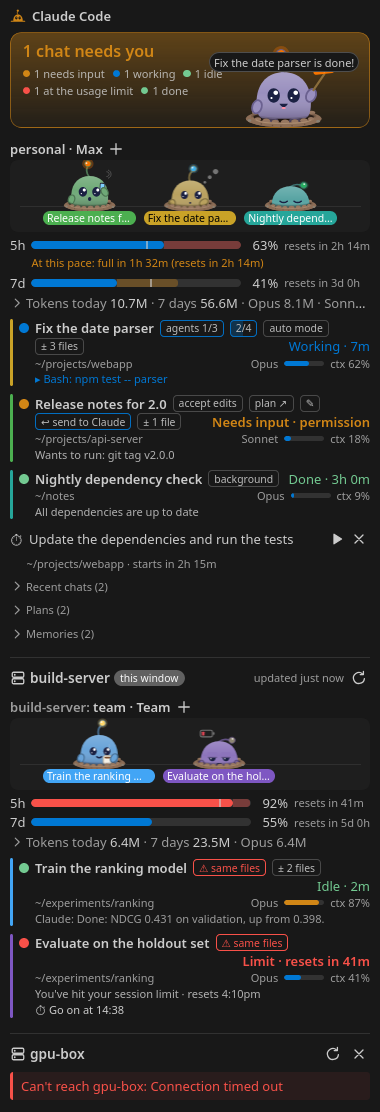
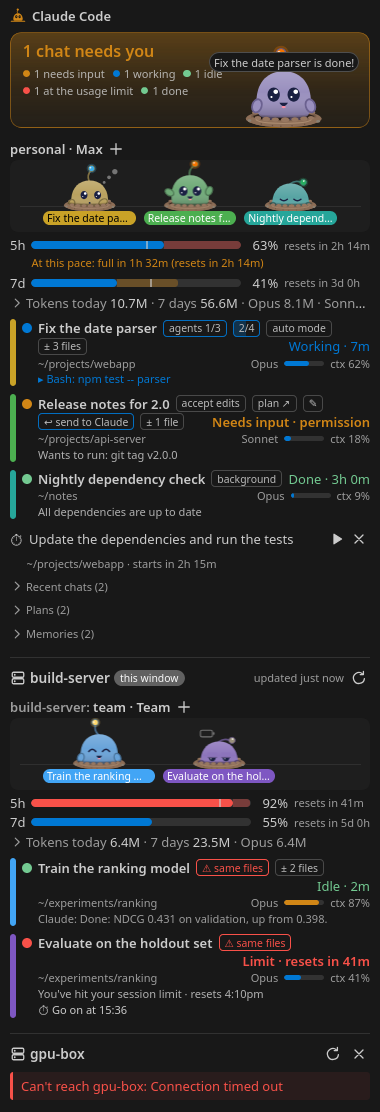
Pets in the order of the list, drawn only as often as they change
The pets stand in the order of their chats in the list, and hurry over when
a new chat makes room; the bar in a pet's color next to its chat is twice as
wide. Talpa (the widget at 501ff92) says how often a picture is worth
drawing, and each pet is drawn only that often; the stage's glow is an
opacity fade the compositor does, instead of a repaint every frame. Nothing
shows under the burrow's lip any more, and the icons are made again.

diff --git a/webview/pets/pets.css b/webview/pets/pets.css
@@ -1,12 +1,6 @@
 /* The pets' stages (webview/pets/stage.ts). Pets move with transforms only;
    each Talpa draws itself on its own canvas (pet.ts). */
 
-@property --cs-glow {
-  syntax: "<number>";
-  inherits: true;
-  initial-value: 1;
-}
-
 .cs-stage {
   --cs-ease-in-out-sine: cubic-bezier(0.37, 0, 0.63, 1);
   --cs-small-font: calc(var(--vscode-font-size, 13px) * 0.85);
@@ -40,7 +34,8 @@
 
 /* A hidden stage: nothing animates */
 .cs-stage.cs-paused,
-.cs-stage.cs-paused * {
+.cs-stage.cs-paused *,
+.cs-stage.cs-paused *::after {
   animation-play-state: paused !important;
 }
 
@@ -59,23 +54,34 @@
   inset: 0;
   box-sizing: border-box;
   border-radius: inherit;
-  --cs-glow: 1;
   background: linear-gradient(
     to bottom,
-    color-mix(in srgb, var(--cs-mood) calc(24% * var(--cs-glow)), transparent),
+    color-mix(in srgb, var(--cs-mood) 24%, transparent),
     color-mix(in srgb, var(--cs-mood) 6%, transparent)
   );
-  border: 1px solid color-mix(in srgb, var(--cs-mood) calc(35% * var(--cs-glow)), transparent);
+  border: 1px solid color-mix(in srgb, var(--cs-mood) 35%, transparent);
 }
 
-/* It pulses while a chat needs you */
-.cs-stage--hero.cs-glowing .cs-stage-light {
+/* It pulses while a chat needs you: a brighter light fades in and out over
+   it (only its opacity changes, which needs no repainting) */
+.cs-stage-light::after {
+  content: "";
+  position: absolute;
+  inset: -1px;
+  box-sizing: border-box;
+  border-radius: inherit;
+  background: linear-gradient(to bottom, color-mix(in srgb, var(--cs-mood) 14%, transparent), transparent 60%);
+  border: 1px solid color-mix(in srgb, var(--cs-mood) 21%, transparent);
+  opacity: 0;
+}
+
+.cs-stage--hero.cs-glowing .cs-stage-light::after {
   animation: cs-glow 1.8s infinite;
 }
 
 @keyframes cs-glow {
-  0%, 100% { --cs-glow: 1; animation-timing-function: var(--cs-ease-in-out-sine); }
-  50% { --cs-glow: 1.6; animation-timing-function: var(--cs-ease-in-out-sine); }
+  0%, 100% { opacity: 0; animation-timing-function: var(--cs-ease-in-out-sine); }
+  50% { opacity: 1; animation-timing-function: var(--cs-ease-in-out-sine); }
 }
 
 .cs-stage-stars {
@@ -259,7 +265,7 @@
 }
 
 @media (prefers-reduced-motion: reduce) {
-  .cs-stage-light {
+  .cs-stage-light::after {
     animation: none !important;
   }
 }

diff --git a/webview/pets/pet.ts b/webview/pets/pet.ts
@@ -282,11 +282,11 @@ export class Pet {
       } else if (!this.stage.shownOnce() || this.arriving) {
         this.px = x; // not seen yet, or still underground: it's just there
       } else if (!this.lone) {
-        this.digTo(x);
+        this.digTo(x, true);
       }
     }
     // the stage got narrower: back inside it
-    if (!this.held && this.px > this.maxX) this.digTo(this.maxX);
+    if (!this.held && this.px > this.maxX) this.digTo(this.maxX, true);
     this.changed();
   }
 
@@ -343,8 +343,9 @@ export class Pet {
     });
   }
 
-  // Digs over to x (it dives in, tunnels across, pops up there)
-  private digTo(x: number): void {
+  // Digs over to x (it dives in, tunnels across, pops up there); quick: its
+  // spot moved (a new chat makes room), so it hurries
+  private digTo(x: number, quick = false): void {
     if (this.held || this.leaving || this.arriving) return;
     this.travelTo = this.clampX(x);
     if (Math.abs(this.travelTo - this.px) < this.stage.bodyWidth * 0.3) {
@@ -357,7 +358,7 @@ export class Pet {
       this.changed();
       return;
     }
-    this.talpa.react("dig");
+    this.talpa.react(quick ? "scoot" : "dig");
   }
 
   // It dug in: tunnel across to its new spot within ms
@@ -556,11 +557,12 @@ export class Pet {
     this.put(this.grab, "grab", "transform", `translate(${px - gw / 2}px, ${ground - lift - gh}px)`);
     this.put(this.grab, "cursor", "cursor", this.held ? "grabbing" : this.lone ? "grab" : "pointer");
 
-    // About 30 pictures a second are plenty
+    // As often as that shows something new (talpa.frameMs: 25 pictures a
+    // second for quick moves, down to 5 at rest); each picture costs
     const now = s.clock.now();
-    if (s.live && now - this.lastDraw < 30) return;
-    this.lastDraw = now;
     this.talpa.tick(now);
+    if (s.live && now - this.lastDraw < this.talpa.frameMs - 10) return; // (frames come every 16.7 ms)
+    this.lastDraw = now;
     const k = devicePixelRatio || 1,
       w = Math.round(s.canvasW * k),
       h = Math.round(s.canvasH * k);

diff --git a/webview/pets/stage.ts b/webview/pets/stage.ts
@@ -8,9 +8,9 @@
 //
 // an account's stage: one pet per chat of that account in the list, up to a
 // few. A pet wears the chat's name on a tag in the chat's color (the chat's
-// row gets a bar in the same color), acts the chat out, opens it when
-// clicked, and stays the same pet, on the same spot, until the chat leaves the
-// list; then it waves and digs away.
+// row gets a bar in the same color), stands in the row in the list's order,
+// acts the chat out, opens it when clicked, and stays the same pet until the
+// chat leaves the list; then it waves and digs away.
 //
 // Everything stops while a stage isn't shown: no animation frame, no timer,
 // paused CSS animations.
@@ -106,7 +106,6 @@ export class Stage implements PetStage, Animator {
   pets: Pet[] = []; // in the order they came (later ones in front)
   private chats: StageChat[] = [];
   private maxPets = 0;
-  private order: string[] = []; // the shown chats' keys, in the order their pets came
   private readonly slots = new Map<string, number>(); // pet key → where it stands; a leaving pet keeps its spot
 
   private wantLive = true; // what the UI says (setLive)
@@ -349,11 +348,9 @@ export class Stage implements PetStage, Animator {
     }
     const shown = this.chats.slice(0, this.maxPets);
     const byKey = new Map(shown.map((c) => [c.key, c]));
-    // Spots: a pet keeps its place in the row while its chat changes state
-    // (the colors tie pets to rows); newcomers line up on the right
-    const keys = this.order.filter((k) => byKey.has(k));
-    for (const c of shown) if (!keys.includes(c.key)) keys.push(c.key);
-    this.order = keys;
+    // Spots: in the order of the chats in the list, left to right (the
+    // colors tie pets to rows)
+    const keys = [...shown].sort((a, b) => a.order - b.order).map((c) => c.key);
     const spacing = this.spacingFor(keys.length);
     this.tagWidth = Math.max(this.gu * 3.5, spacing - SMALL * 2);
     keys.forEach((k, i) => this.slots.set(k, this.margin + (i + 0.5) * spacing));

diff --git a/test/pets.test.ts b/test/pets.test.ts
@@ -171,7 +171,8 @@ function account(maxPets = 3) {
     frames: t.frames,
     lay: (width = 400) => t.resize[0]([{ contentRect: { width, height: 80 } }]),
     show: (on = true) => t.intersect[0]([{ isIntersecting: on }]),
-    give: (chats: unknown[]) => stage.update({ chats, maxPets, fiveHour: 0 }),
+    // (in the order of the account's list)
+    give: (chats: Any[]) => stage.update({ chats: chats.map((c, i) => ({ order: i, ...c })), maxPets, fiveHour: 0 }),
   };
 }
 
@@ -333,6 +334,30 @@ test("a pet dropped away from its spot digs back to it", () => {
   assert.ok(dug, "it stays where it was dropped");
   assert.equal(pet.stride.to, pet.homeX);
   s.stage.destroy();
+});
+
+test("the pets stand in the order of the list", () => {
+  const { stage, lay, show, give } = account();
+  lay();
+  show();
+  // (the chats come with the ones that need you first; the list has them in its own order)
+  give([chat("p/2", "waiting", { }), chat("p/1"), chat("p/3", "idle")].map((c, i) => ({ ...c, order: [1, 0, 2][i] })));
+  const x = (k: string) => stage.petFor(k).homeX;
+  assert.ok(x("p/1") < x("p/2") && x("p/2") < x("p/3"), "not in the list's order");
+  stage.destroy();
+});
+
+test("a pet whose spot moves hurries over to it", () => {
+  const { stage, lay, show, give } = account();
+  lay();
+  show();
+  stage.firstShownTimer.fire();
+  give([chat("p/1")]);
+  const pet = stage.petFor("p/1");
+  wait(pet, 3000); // up out of the ground
+  give([chat("p/0"), chat("p/1")]); // a new chat comes first in the list: p/1's spot moves right
+  assert.equal(pet.talpa.run?.name, "scoot");
+  stage.destroy();
 });
 
 test("a pet still popping up goes to where its spot is now", () => {

diff --git a/webview/util/chat.ts b/webview/util/chat.ts
@@ -24,15 +24,14 @@ export { chatRefOf, recentRef, sharedRef } from "../../src/shared/model";
 export function stageChats(g: Group): StageChat[] {
   const rank: Record<string, number> = { waiting: 0, working: 1, idle: 2, done: 3 };
   const seen = new Set<string>();
-  const out: { chat: StageChat; order: number }[] = [];
+  const out: StageChat[] = [];
   for (const s of g.sessions) {
     const key = petKeyOf(s, g.host);
     if (seen.has(key)) continue;
     seen.add(key);
-    out.push({ chat: g.host ? { key, session: s, host: g.host } : { key, session: s }, order: out.length });
+    out.push(g.host ? { key, session: s, host: g.host, order: out.length } : { key, session: s, order: out.length });
   }
-  out.sort((a, b) => (rank[a.chat.session.state] ?? 4) - (rank[b.chat.session.state] ?? 4) || a.order - b.order);
-  return out.map((o) => o.chat);
+  return out.sort((a, b) => (rank[a.session.state] ?? 4) - (rank[b.session.state] ?? 4) || a.order - b.order);
 }
 
 export function fiveHourOf(g: Group): number {

diff --git a/dev/pets.tsx b/dev/pets.tsx
@@ -42,7 +42,7 @@ function chatsOf(g: Group): StageChat[] {
   return g.sessions
     .map((s, i) => ({ s, i }))
     .sort((a, b) => order[a.s.state] - order[b.s.state] || a.i - b.i)
-    .map(({ s }) => ({ key: petKeyOf(s, g.host), session: s, host: g.host }));
+    .map(({ s, i }) => ({ key: petKeyOf(s, g.host), session: s, host: g.host, order: i }));
 }
 
 function heroInput(state: ViewState, groups: Group[]): HeroInput {

diff --git a/webview/pets/api.ts b/webview/pets/api.ts
@@ -10,6 +10,7 @@ export interface StageChat {
   key: string; // petKeyOf(session, host): stays the same while the chat's row changes
   session: Session;
   host?: string;
+  order: number; // its place in the account's list: the pets stand in that order, left to right
 }
 
 export interface HeroInput {

diff --git a/webview/styles.css b/webview/styles.css
@@ -833,8 +833,8 @@ button:focus-visible {
 
 .pet-bar {
   flex: none;
-  width: 3px;
-  border-radius: 1.5px;
+  width: 6px;
+  border-radius: 3px;
 }
 
 .state-dot {

diff --git a/README.md b/README.md
@@ -124,11 +124,12 @@ As an editor tab (**Claude Status: Open in Editor Tab**):
 - **The status bar**: how many chats need you, the 5-hour usage, and with
   two or more accounts which one VS Code's Claude runs on (**Claude: work**):
   click it to change the default account.
-- **Talpa**: one pet for the whole dashboard, one per chat, each acting out
-  its chat. Talpa lives in a burrow: it digs over to another spot instead of
-  walking, a new chat's pet digs up out of the ground, and one whose chat
-  leaves the list waves and digs away. Click a pet to open its chat, drag
-  one out of its burrow, double-click the big one.
+- **Talpa**: one pet for the whole dashboard, one per chat (in the same
+  order as the list, its bar in the pet's color), each acting out its chat.
+  Talpa lives in a burrow: it digs over to another spot instead of walking,
+  a new chat's pet digs up out of the ground, and one whose chat leaves the
+  list waves and digs away. Click a pet to open its chat, drag one out of
+  its burrow, double-click the big one.
 - **Shared chats**: with two or more Claude accounts on this computer (or
   on an SSH host), a finished chat's share button continues it on another
   account (say, when one hits its limit), shares it with all of them, or

diff --git a/CHANGELOG.md b/CHANGELOG.md
@@ -16,6 +16,13 @@
   (in the state color: it pops up when a chat needs you, glances around
   while Claude works, smiles when it's your turn and sleeps when nothing
   runs), in the sidebar and on the extension's page.
+- **Pets in the order of the list:** an account's pets stand left to right in
+  the order of its chats in the list; when a new chat comes, the others
+  hurry over to make room. The bar in the pet's color next to each chat is
+  twice as wide, so you find a pet's chat at a glance.
+- **Lighter:** a pet is drawn only as often as that shows something new (up
+  to 25 times a second while it moves quickly, 5 while it just breathes),
+  and the stage's glow fades without redrawing the stage.
 
 - A plan or memory in a long folder lost the end of its time ("5d 22h a")
   at the row's end, whatever the panel's width: the folder is now cut in
